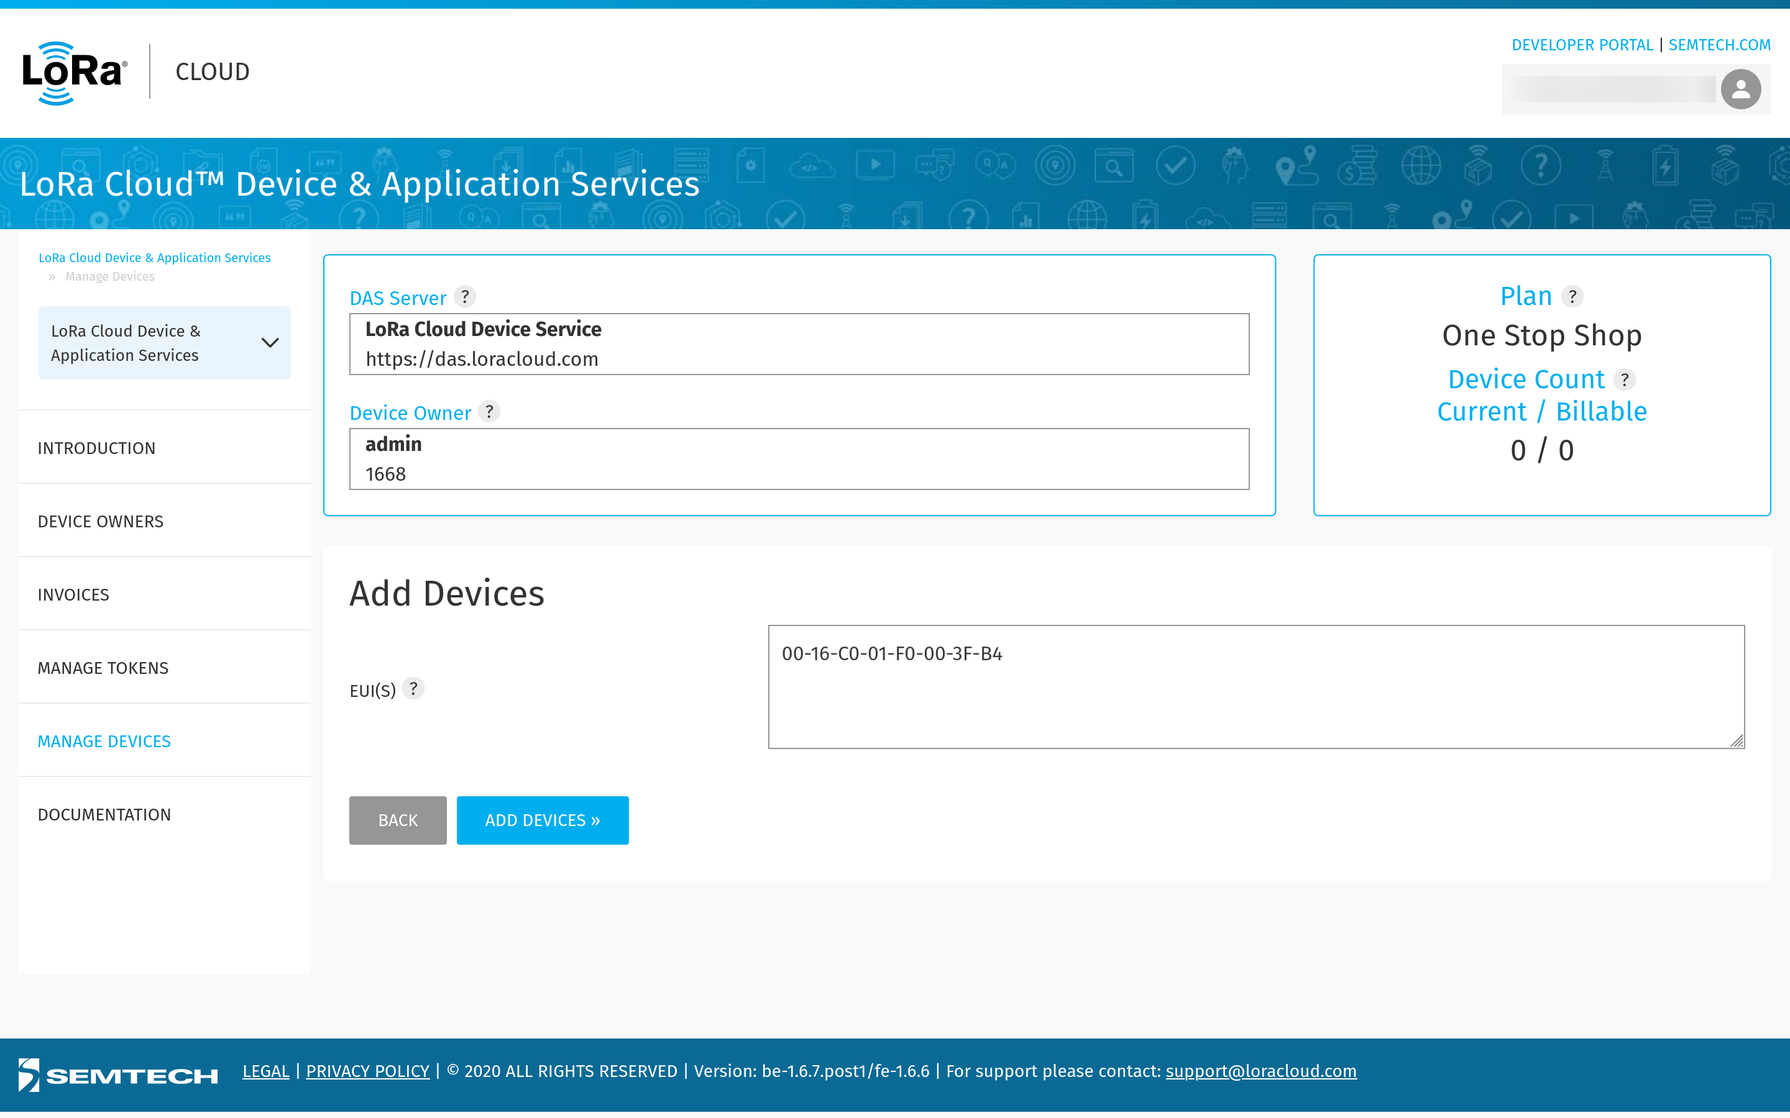
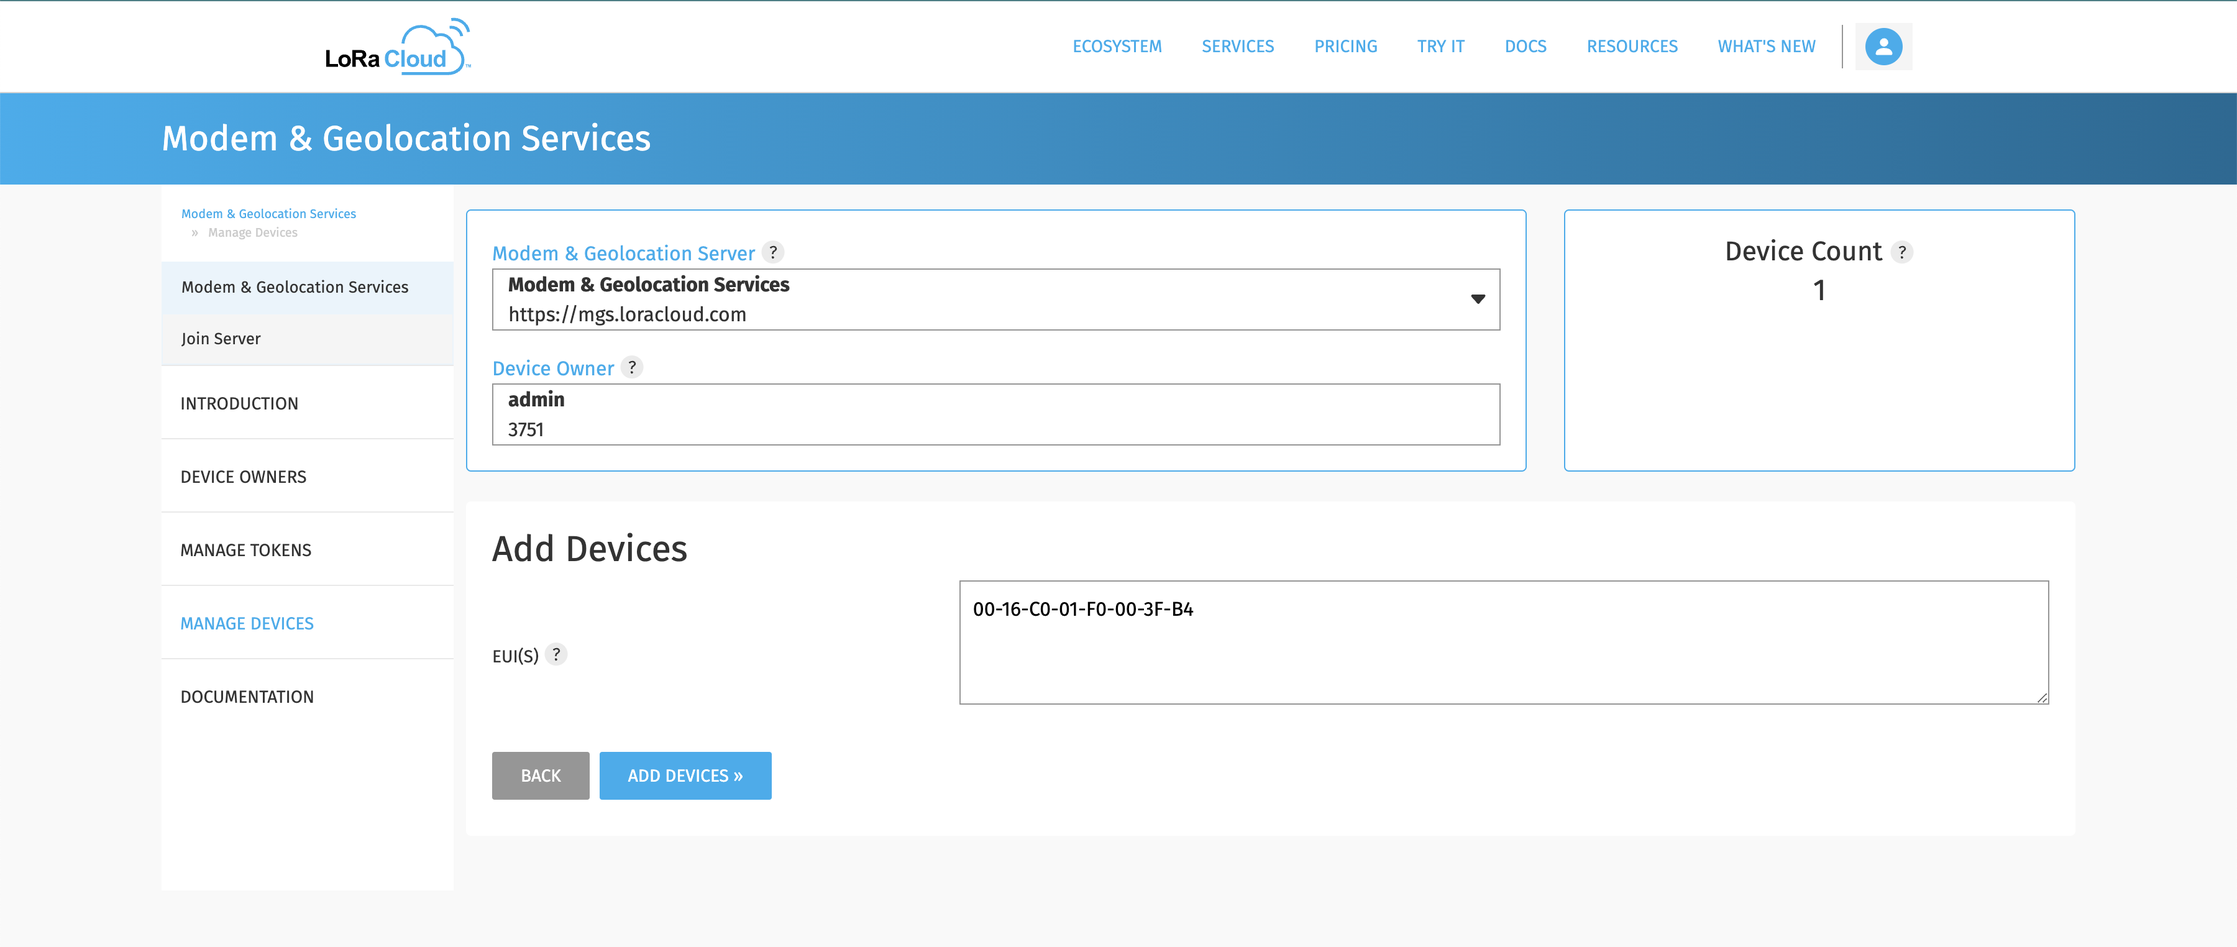
doc: Update LoRa Cloud integration docs (#1046)
* doc: Update LoRa Cloud integration docs

diff --git a/doc/content/integrations/lora-cloud/modem-services.md b/doc/content/integrations/lora-cloud/modem-services.md
@@ -1,53 +1,40 @@
 ---
-title: "LoRa Cloud Device & Application Services"
+title: "LoRa Cloud Modem Services"
 description: ""
+weight: 3
 ---
 
-[LoRa Cloud Device & Application Services](https://www.loracloud.com/portal/device_management/home) comprise a set of full life-cycle management features for LoRaWAN-based devices, which are intended to simplify the development of managed LoRaWAN endpoint solutions.
+[LoRa Cloud Modem Services](https://www.loracloud.com/portal/device_management/home) complement your device management solution by giving you fine grain control of your LoRaWAN end devices. It allows to obtain modem status information such as: system status, firmware version, voltage, downlink signal quality and time since last downlink.
 
 <!--more-->
 
-LoRa Cloud Device & Application Services protocol lets you manage common device functionality at the application layer for all LoRa-based devices, and manage geolocation for modem-based devices (like [LoRa Edge LR1110 Solution](https://www.loracloud.com/documentation/device_management?url=overview.html#lora-edge-lr1110-solution)). These services also provide protocols for reliable application data reception from all Semtech's LoRaWAN-compatible devices, with efficient techniques to fight against packet loss. 
+LoRa Cloud Modem Services protocol lets you manage common device functionality at the application layer for all LoRa-based devices, and manage geolocation for modem-based devices (like [LoRa Edge LR1110 Solution](https://www.loracloud.com/documentation/device_management?url=overview.html#lora-edge-lr1110-solution)). These services also provide protocols for reliable application data reception from all Semtech's LoRaWAN-compatible devices, with efficient techniques to fight against packet loss.
 
-In general, LoRa Cloud Device & Application Services do not interact directly with network servers to retrieve uplinks or schedule downlinks, so it is usually users's responsibility to forward uplinks towards and schedule downlinks from LoRa Cloud as a part of the response.
+In general, LoRa Cloud Modem Services do not interact directly with network servers to retrieve uplinks or schedule downlinks, so it is usually users's responsibility to forward uplinks towards and schedule downlinks from LoRa Cloud as a part of the response.
 
-However, when it comes to geolocation for modem-based devices, {{% tts %}} integration with LoRa Cloud Device & Application Services handles this on behalf of the user, i.e. it queries the protocol engine on LoRa Cloud in order to retrieve the response. This way, after the integration is configured and the uplink message containing scanning result is sent from the device, the user only has to monitor results in {{% tts %}}.
+However, when it comes to geolocation for modem-based devices, {{% tts %}} integration with LoRa Cloud Modem Services handles this on behalf of the user, i.e. it queries the protocol engine on LoRa Cloud in order to retrieve the response. This way, after the integration is configured and the uplink message containing scanning result is sent from the device, the user only has to monitor results in {{% tts %}}.
 
-## LoRa Cloud Setup
+Before proceding with this guide, make sure you have completed the [LoRa Cloud Setup]({{< ref "/integrations/lora-cloud/portal" >}}) guide.
 
-On the [LoRa Cloud portal](https://www.loracloud.com/portal), navigate to **LoRa Cloud Device & Application Services**.
+## Configure LoRa Cloud Modem Services Integration
 
-{{< figure src="../das.png" alt="LoRa Cloud Device & Application Services" >}}
+To setup LoRa Cloud Modem Services integration, navigate to your application in {{% tts %}}.
 
-Choose **Manage devices** on the left hand menu and click the **Add devices** button. To add a device, you only need to provide its EUI as shown on the image below.
+On the left hand menu, select **Integrations &#8594; LoRa Cloud**. Click the **Expand** button next to the **Modem Services**.
 
-{{< figure src="../add-device.png" alt="Adding a new device" >}}
-
-Next, choose **Manage tokens** on the left hand menu. Click the **Create new token** button.
-
-Give the name to your token and tick the boxes next to permissions you wish to allow for it. Click the **Create new token** button to finish. A user can decide to restrict some permissions. On the image below, all permissions are allowed for the sake of simplicity of this guide.
-
-{{< figure src="../token-creation.png" alt="Creating a token" >}}
-
-## Configure Device & Application Services Integration
-
-To setup LoRa Cloud Device & Application Services integration, navigate to your application in {{% tts %}}.
-
-On the left hand menu, select **Integrations &#8594; LoRa Cloud**. Click the **Expand** button next to the **Device & Application Services**.
-
-Next, copy the token you previously created in LoRa Cloud Device & Application Services portal.
+Next, copy the token you previously created in LoRa Cloud Modem & Geolocation Services portal and paste it in the **Token** field.
 
 {{< figure src="../copy-token.png" alt="Copy the token from LoRa Cloud" >}}
 
-Paste the token in the **Token** field under the **Set LoRa Cloud token** section and tick the box under **LR1110 demo encoding** to enable it. Finish by clicking the **Set token** button.
+Finish by clicking the **Set token** button.
 
-{{< figure src="../paste-token.png" alt="Paste the token in The Things Stack" >}}
+{{< figure src="../paste-token-modem.png" alt="Paste the token in The Things Stack" >}}
 
-## Obtain Location Solutions 
+## Obtain Location Solutions
 
 For LR1110 modem-based devices, location of the device can be estimated using Wi-Fi, assisted GNSS and autonomous GNSS scans. This section will show you how to obtain the location estimates using Wi-Fi and assisted GNSS scans.
 
-{{< note >}} Please keep in mind that this guide does not refer to  LoRa Cloud Geolocation. In case you are looking for geolocation solutions that use RSSI and TOA metadata, or you are using LR1110-based device with transceiver firmware (instead of Modem-E firmware), you should follow the [LoRa Cloud Geolocation guide]({{< ref "/integrations/lora-cloud/geolocation" >}}). {{</ note >}}
+{{< note >}} Please keep in mind that this guide does not refer to  LoRa Cloud Geolocation. In case you are looking for geolocation solutions that use RSSI and TOA metadata, or you are using LR1110-based device with transceiver firmware (instead of Modem-E firmware), you should follow the [LoRa Cloud Geolocation guide]({{< ref "/integrations/lora-cloud/geolocation-services" >}}). {{</ note >}}
 
 {{< note >}}  The number of (useful) satellites detected when running the autonomous GNSS scan might not be enough to calculate the position of your device, so we will not include that case in this guide. However, if you want to read more about it, follow [this guide](https://lora-developers.semtech.com/learning-center/hands-on-labs/build-end-to-end-solution-using-lorawan-and-loraedge/find-the-location-of-your-tracking-device/#run-an-autonomous-gnss-scan-and-send-results). {{</ note >}}
 
@@ -90,7 +77,7 @@ If you are facing these errors, keep repeating the scan and re-sending results p
 
 Besides estimating the location of your device, you can also send requests from LoRa Cloud portal to mute or reset the device, trigger it for a re-join, set ADR profile or obtain information like temperature, voltage, signal strength, status, etc. In this section, we demonstrate how to send a request to obtain information from your device.
 
-To send a request, navigate to **Manage devices** on the left hand menu in the LoRa Cloud Device & Application Services portal.
+To send a request, navigate to **Manage devices** on the left hand menu in the LoRa Cloud Modem Services portal.
 
 Click on the **Send requests** button.
 
@@ -102,7 +89,7 @@ Schedule the request to be sent by clicking the **Send requests** button.
 
 {{< figure src="../get-info.png" alt="Get Info request" >}}
 
-After a few moments, click on a reload button to refresh the device information in the **Manage devices** view. You can already see that the **Status** is changed to **Joined: Yes**, as well as the time of the **Last Uplink**, **Signal RSSI** and **Signal SNR**. 
+After a few moments, click on a reload button to refresh the device information in the **Manage devices** view. You can already see that the **Status** is changed to **Joined: Yes**, as well as the time of the **Last Uplink**, **Signal RSSI** and **Signal SNR**.
 
 Click the **>** button next to your device to see all the information that was obtained from the device.
 

diff --git a/doc/content/integrations/lora-cloud/geolocation-services.md b/doc/content/integrations/lora-cloud/geolocation-services.md
@@ -1,9 +1,10 @@
 ---
-title: "LoRa Cloud Geolocation"
+title: "LoRa Cloud Geolocation Services"
 description: ""
+weight: 2
 ---
 
-[LoRa Cloud Geolocation Service](https://www.loracloud.com/portal/geolocation/home) provides simple JSON web APIs that can be easily integrated with a LoRaWAN network or application server to enable estimating the location of LoRa-based devices.
+[LoRa Cloud Geolocation Services](https://www.loracloud.com/portal/geolocation/home) provides simple JSON web APIs that can be easily integrated with a LoRaWAN network or application server to enable estimating the location of LoRa-based devices.
 
 <!--more-->
 
@@ -23,41 +24,35 @@ Three query types are supported in scope of this integration and will be demonst
 
 The location of your gateway has to be publicly available for this integration, as it participates in the process of computing the end device location. This is disabled in {{% tts %}} by default, because the application (and end device) owner does not have be the one providing the gateway coverage. If you own the gateway, it is safe for you to explicitly allow to publish its location.
 
-To make the gateway location public, tick the **Gateway location &#8594; Public** box when [adding your gateway]({{< ref "/gateways/concepts/adding-gateways" >}}) in {{% tts %}} Console. 
+To make the gateway location public, tick the **Gateway location &#8594; Public** box when [adding your gateway]({{< ref "/gateways/concepts/adding-gateways" >}}) in {{% tts %}} Console.
 
 If your gateway is already added in {{% tts %}} Console, go to your gateway's settings, navigate to the **Location** tab on the left hand menu and tick the **Privacy &#8594; Publish location** box.
 
-{{< note >}} Using Semtech's [Modem-E firmware](https://lora-developers.semtech.com/library/tech-papers-and-guides/understanding-lora-basics-modem-e/) is recommended for LR1110-based devices, hence using the [LoRa Cloud Device & Application Services integration]({{< ref "/integrations/lora-cloud/das" >}}) instead of LoRa Cloud Geolocation is also recommended. {{</ note >}}
+{{< note >}} Using Semtech's [Modem-E firmware](https://lora-developers.semtech.com/library/tech-papers-and-guides/understanding-lora-basics-modem-e/) is recommended for LR1110-based devices, hence using the [LoRa Cloud Modem Services integration]({{< ref "/integrations/lora-cloud/modem-services" >}}) instead of LoRa Cloud Geolocation is also recommended. {{</ note >}}
 
-## LoRa Cloud Setup
-
-Before you create the integration on {{% tts %}}, you first need to prepare the setup on LoRa Cloud.
-
-On the [LoRa Cloud portal](https://www.loracloud.com/portal), navigate to **LoRa Cloud Geolocation**.
-
-{{< figure src="../geolocation.png" alt="LoRa Cloud Device & Application Services" >}}
-
-Choose **Manage tokens** on the left hand menu. You will see that two tokens (**Primary Token** and **Secondary Token**) are pre-configured and you can use them in the next step.
-
-{{< figure src="../geolocation-tokens.png" alt="Pre-configured tokens" >}}
+Before proceding with this guide, make sure you have completed the [LoRa Cloud Setup]({{< ref "/integrations/lora-cloud/portal" >}}) guide.
 
 ## Configure Geolocation Integration
 
 To setup LoRa Cloud Geolocation integration, navigate to your application in {{% tts %}}.
 
-On the left hand menu, select **Integrations &#8594; LoRa Cloud**. Click the **Expand** button next to the **Geolocation**.
+On the left hand menu, select **Integrations &#8594; LoRa Cloud**. Click the **Expand** button next to the **Geolocation services**.
 
-Next, copy one of the aforementioned tokens from LoRa Cloud Geolocation portal. Paste the token in the **Token** field under the **Set LoRa Cloud token** section. 
+Next, copy the token you previously created in LoRa Cloud Modem & Geolocation Services portal and paste it in the **Token** field.
+
+{{< figure src="../copy-token.png" alt="Copy the token from LoRa Cloud" >}}
 
 Choose the **Query type** depending on the type of data you want to use for estimating the location of your device. As mentioned earlier, you can choose **LoRa TOA/RSSI**, **GNSS** or **TOA/WiFi** query type.
 
 If you choose **LoRa TOA/RSSI**, you also have an option to enable **Multiframe** location lookups. Multiframe mode allows using the sequence of radio frames (instead of just a single frame) to improve the device's location estimation accuracy. Multiframe mode is reported to be more accurate than averaging multiple location results calculated from several single radio frames. If you choose multiframe mode, you can also set the **Multiframe window size** to tell how many historical messages should be sent as part of the final request, and **Multiframe time window** as the maximum age of considered historical messages.
 
+The setting for the Server URL points to the LoRa Cloud Modem & Geolocation Services and is set by default. Changing this is unnecessary.
+
 Finish by clicking the **Set token** button.
 
-{{< figure src="../geolocation-integration.png" alt="LoRa Cloud Geolocation integration" >}}
+{{< figure src="../paste-token-geolocation.png" alt="LoRa Cloud Geolocation integration" >}}
 
-## Obtain Location Solutions 
+## Obtain Location Solutions
 
 This section will show you how to obtain the location estimates using LoRa® TOA/RSSI, GNSS and TOA/WiFi query types.
 

diff --git a/doc/content/reference/application-packages/lora-cloud-device-and-application-services.md b/doc/content/reference/application-packages/lora-cloud-device-and-application-services.md
@@ -1,18 +1,18 @@
 ---
-title: "LoRa Cloud Device & Application Services"
+title: "LoRa Cloud Modem and Geolocation Services"
 description: ""
 aliases: "/integrations/application-packages/lora-cloud-device-and-application-services"
 ---
 
-The LoRa Cloud Device & Application Services v1 application package communicates the uplinks received from a compatible device to the LoRa Cloud Device & Application Services, and schedules the downlinks received from the service back to the device.
+The LoRa Cloud Modem and Geolocation Services v1 application package communicates the uplinks received from a compatible device to the LoRa Cloud Modem and Geolocation Services, and schedules the downlinks received from the service back to the device.
 
-More information on the LoRa Cloud Device & Application Services can be found in the [official LoRa documentation](https://www.loracloud.com/documentation/device_management?url=overview.html).
+More information on the LoRa Cloud Modem and Geolocation Services can be found in the [official LoRa documentation](https://www.loracloud.com/documentation/device_management?url=overview.html).
 
 ## Creating a New Uplink Token
 
-In order to use the LoRa Cloud Device & Application Services application package, a new access token must be created in order to allow the Application Server to send the uplinks to the Device & Application Services. 
+In order to use the LoRa Cloud Modem and Geolocation Services application package, a new access token must be created in order to allow the Application Server to send the uplinks to the Device & Application Services.
 
-The new token can be created in the LoRa Cloud Device & Application Services portal, in the **Token Management** section.
+The new token can be created in the LoRa Cloud Modem and Geolocation Services portal, in the **Token Management** section.
 
 {{< figure src="../lora-dms-token-creation.png" alt="Token creation" >}}
 
@@ -35,7 +35,7 @@ echo '{ "token": "AQEAdqwV67..." }' > package-data.json
 ttn-lw-cli applications packages default-associations set $APP_ID $F_PORT --package-name lora-cloud-device-management-v1 --data-local-file package-data.json
 ```
 
-This will enable the package on FPort `199` of all of the devices of application `app1`. You can now use the LoRa Cloud Device & Application Services in order to manage your device!
+This will enable the package on FPort `199` of all of the devices of application `app1`. You can now use the LoRa Cloud Modem and Geolocation Services in order to manage your device!
 
 <details><summary>Output</summary>
 
@@ -97,7 +97,7 @@ The package data format is common between both default associations and associat
 
 | Field | Type | Description | Required | Default value |
 |-------|------|-------------|---------|---------------|
-| `token` | `string` | The acces token to be used by the package to submit uplinks to the LoRa Cloud Device & Application Services | Yes | None. |
-| `server_url` | `URL` | The custom base URL to be used for service communication | No | `https://das.loracloud.com`
+| `token` | `string` | The acces token to be used by the package to submit uplinks to the LoRa Cloud Modem and Geolocation Services | Yes | None. |
+| `server_url` | `URL` | The custom base URL to be used for service communication | No | `https://mgs.loracloud.com`
 
 Fields can be customized on a per device basis, by overriding the field in the package data of the association.

diff --git a/doc/content/integrations/lora-cloud/_index.md b/doc/content/integrations/lora-cloud/_index.md
@@ -4,7 +4,7 @@ description: ""
 weight: 60
 ---
 
-[LoRa Cloud™](https://www.loracloud.com/) platform offers value-added APIs that enable simple solutions for common tasks related to LoRaWAN networks and LoRa-based devices. {{% tts %}} supports integrations with [LoRa Cloud Device & Application Services]({{< ref "/integrations/lora-cloud/das" >}}) and [LoRa Cloud Geolocation API]({{< ref "/integrations/lora-cloud/geolocation" >}}).
+[LoRa Cloud™](https://www.loracloud.com/) platform offers value-added APIs that enable simple solutions for common tasks related to LoRaWAN networks and LoRa-based devices. {{% tts %}} supports integrations with [LoRa Cloud Modem Services]({{< ref "/integrations/lora-cloud/modem-services" >}}) and [LoRa Cloud Geolocation Services]({{< ref "/integrations/lora-cloud/geolocation-services" >}}).
 
 <!--more-->
 
@@ -12,7 +12,7 @@ The [LoRa Edge™ LR1110](https://www.semtech.com/products/wireless-rf/lora-edge
 
 This device is running the LoRa Basics Modem-E Firmware and the LoRa Basics Modem-E Demo Application, which provide the device with enough capabilities to perform operations that are of interest in this guide, like WiFi and GNSS assisted scanning. To install the aforementioned firmware and the demo application, follow [this guide](https://lora-developers.semtech.com/learning-center/hands-on-labs/build-end-to-end-solution-using-lorawan-and-loraedge/install-nucleo-and-lr1110-software/).
 
-The device is claimed using the [LoRa Cloud Device Join Service](https://www.loracloud.com/documentation/join_service?url=index.html). That operation is out of the scope of this guide and {{% tts %}} documentation in general, but you can find the detailed documentation on how to claim your device at [Semtech's Learning Center site](https://lora-developers.semtech.com/learning-center/hands-on-labs/build-end-to-end-solution-using-lorawan-and-loraedge/claim-your-device-on-the-lora-cloud-portal/). 
+The device is claimed using the [LoRa Cloud Device Join Service](https://www.loracloud.com/documentation/join_service?url=index.html). That operation is out of the scope of this guide and {{% tts %}} documentation in general, but you can find the detailed documentation on how to claim your device at [Semtech's Learning Center site](https://lora-developers.semtech.com/learning-center/hands-on-labs/build-end-to-end-solution-using-lorawan-and-loraedge/claim-your-device-on-the-lora-cloud-portal/).
 
 In this guide, we assume you already [added the device]({{< ref "/devices/adding-devices" >}}) in {{% tts %}} Console. Please keep in mind that in case of using the LoRa Cloud Device Join Service for claiming, you have to tick the **External Join Server** box when adding the device in {{% tts %}} Console, as described [here]({{< ref "/devices/adding-devices#manually-create-end-device" >}}).
 

diff --git a/doc/content/integrations/lora-cloud/portal.md b/doc/content/integrations/lora-cloud/portal.md
@@ -1,0 +1,25 @@
+---
+title: "LoRa Cloud Setup"
+description: ""
+weight: 1
+---
+
+Before connecting your device to {{% tts %}} you need to set up the [LoRa Cloud portal](https://www.loracloud.com/portal) by creating an API token.
+
+<!-- more -->
+
+## LoRa Cloud Portal Setup
+
+On the [LoRa Cloud portal](https://www.loracloud.com/portal), navigate to **Modem & Geolocation Services**.
+
+{{< figure src="../portal.png" alt="LoRa Cloud Modem & Geolocation Services" >}}
+
+Choose **Manage tokens** on the left hand menu. Click the **Create new token** button.
+
+Give the name to your token and tick the boxes next to permissions you wish to allow for it. Click the **Create new token** button to finish. A user can decide to restrict some permissions. On the image below, all permissions are allowed for the sake of simplicity of this guide.
+
+{{< figure src="../create-token.png" alt="Creating a token" >}}
+
+To add a new device, choose **Manage devices** on the left hand menu and click the **Add devices** button. You only need to provide the device EUI as shown on the image below.
+
+{{< figure src="../add-device.png" alt="Adding a new device" >}}
